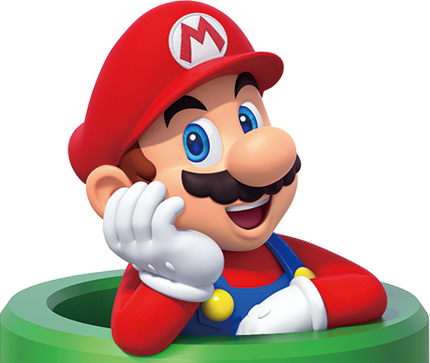
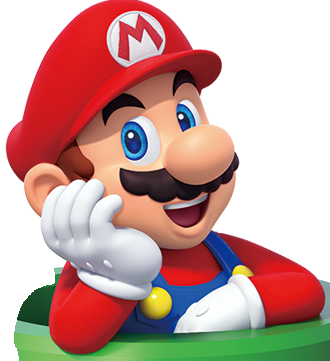
atualização de corpo

diff --git a/ints/int3.html b/ints/int3.html
@@ -11,10 +11,10 @@
 
 <header1>
     <div class="perfil">
-        <img src="./img/carinha.jpg" /> - quero crescer profissionalmente, adquirir um bom conhecimento de programação e
-        trabalhar na área. <br>Mais pra frente penso em construir uma família, ter estabilidade financeira e quem sabe
-        comprar um iate, morar no mar. <br>Com os satélites do Elon vai dar para programar até das Ilhas Maldivas,
-        claro, se lá não for mais quente que Buritizeiro.
+        <img src="./img/carinha.jpg" /> - quero crescer profissionalmente, adquirir um bom conhecimento de programação
+        e trabalhar na área. <br>Mais pra frente penso em construir uma família, ter estabilidade financeira e quem
+        sabe comprar um iate, morar no mar.<br> Com os satélites do Elon vai dar para programar até das Ilhas
+        Maldivas, claro, se lá não for mais quente que Buritizeiro.
     </div>
 </header1>
 

diff --git a/ints/index.html b/ints/index.html
@@ -9,24 +9,24 @@
     <link rel="stylesheet" href="cssi.css">
 </head>
 <div>
-    <h3>
-        Olá, sejam bem vindos!
-    </h3>
+    <h4> </h4>
 </div>
 <header1>
     <div class="perfil">
-        <img src="./img/carinha.jpg" /> - me chamo João Pedro...
+        <img src="./img/carinha.jpg" /> - Olá, me chamo João Pedro...
     </div>
 </header1>
 
 <body>
-    <nav>
-        <ul>
-            <li>
-                <a href="int1.html">me conte mais sobre você>></a>
-            </li>
-        </ul>
-    </nav>
+    <header4>
+        <nav>
+            <ul>
+                <li>
+                    <a href="int1.html">me conte mais sobre você >></a>
+                </li>
+            </ul>
+        </nav>
+    </header4>
 
 </body>
 

diff --git a/ints/cssi.css b/ints/cssi.css
@@ -35,10 +35,23 @@ footer img {
     padding-left: 10mm;
 }
 
-header3 img {
-    width: 400px;
-    height: 300px;
+header3 {
     display: flex;
     justify-content: center;
-    padding-left: 15%;
+    padding: 10mm;
+}
+
+header3 img {
+    display: flex;
+    justify-content: center;
+    width: 300px;
+    right: 250px;
+    padding: 5mm;
+}
+
+header4 {
+    display: flex;
+    justify-content: end;
+    padding: 5mm;
+    list-style-type: none
 }

diff --git a/ints/int2.html b/ints/int2.html
@@ -11,7 +11,8 @@
 
 <header1>
     <div class="perfil">
-        <img src="./img/carinha.jpg" /> - sou de Buritizeiro, norte de Minas, lugar mais quente não existe, e trabalhar
+        <img src="./img/carinha.jpg" /> - sou de Buritizeiro, norte de Minas, lugar mais quente não existe, <br>e
+        trabalhar
         em casa na frente do
         ventilador é meu principal objetivo, <b>brics</b>...
     </div>

diff --git a/index.html b/index.html
@@ -13,7 +13,7 @@
 </div>
 <header1>
     <div class="perfil">
-        <img src="./img/carinha.jpg" /> - Olá, me chamo João Pedro...
+        <img src="./img/carinha.jpg" /> - Olá! me chamo João Pedro...
     </div>
 </header1>
 

diff --git a/ints/int4.html b/ints/int4.html
@@ -11,7 +11,7 @@
 
 <header3>
     <div class="perfil">
-        <img src="./img/mario.png" />
+        <img src="./img/mario.png" /> Sabe o que falta em você rapaz? <b>Humildade!</b>
     </div>
 </header3>
 
